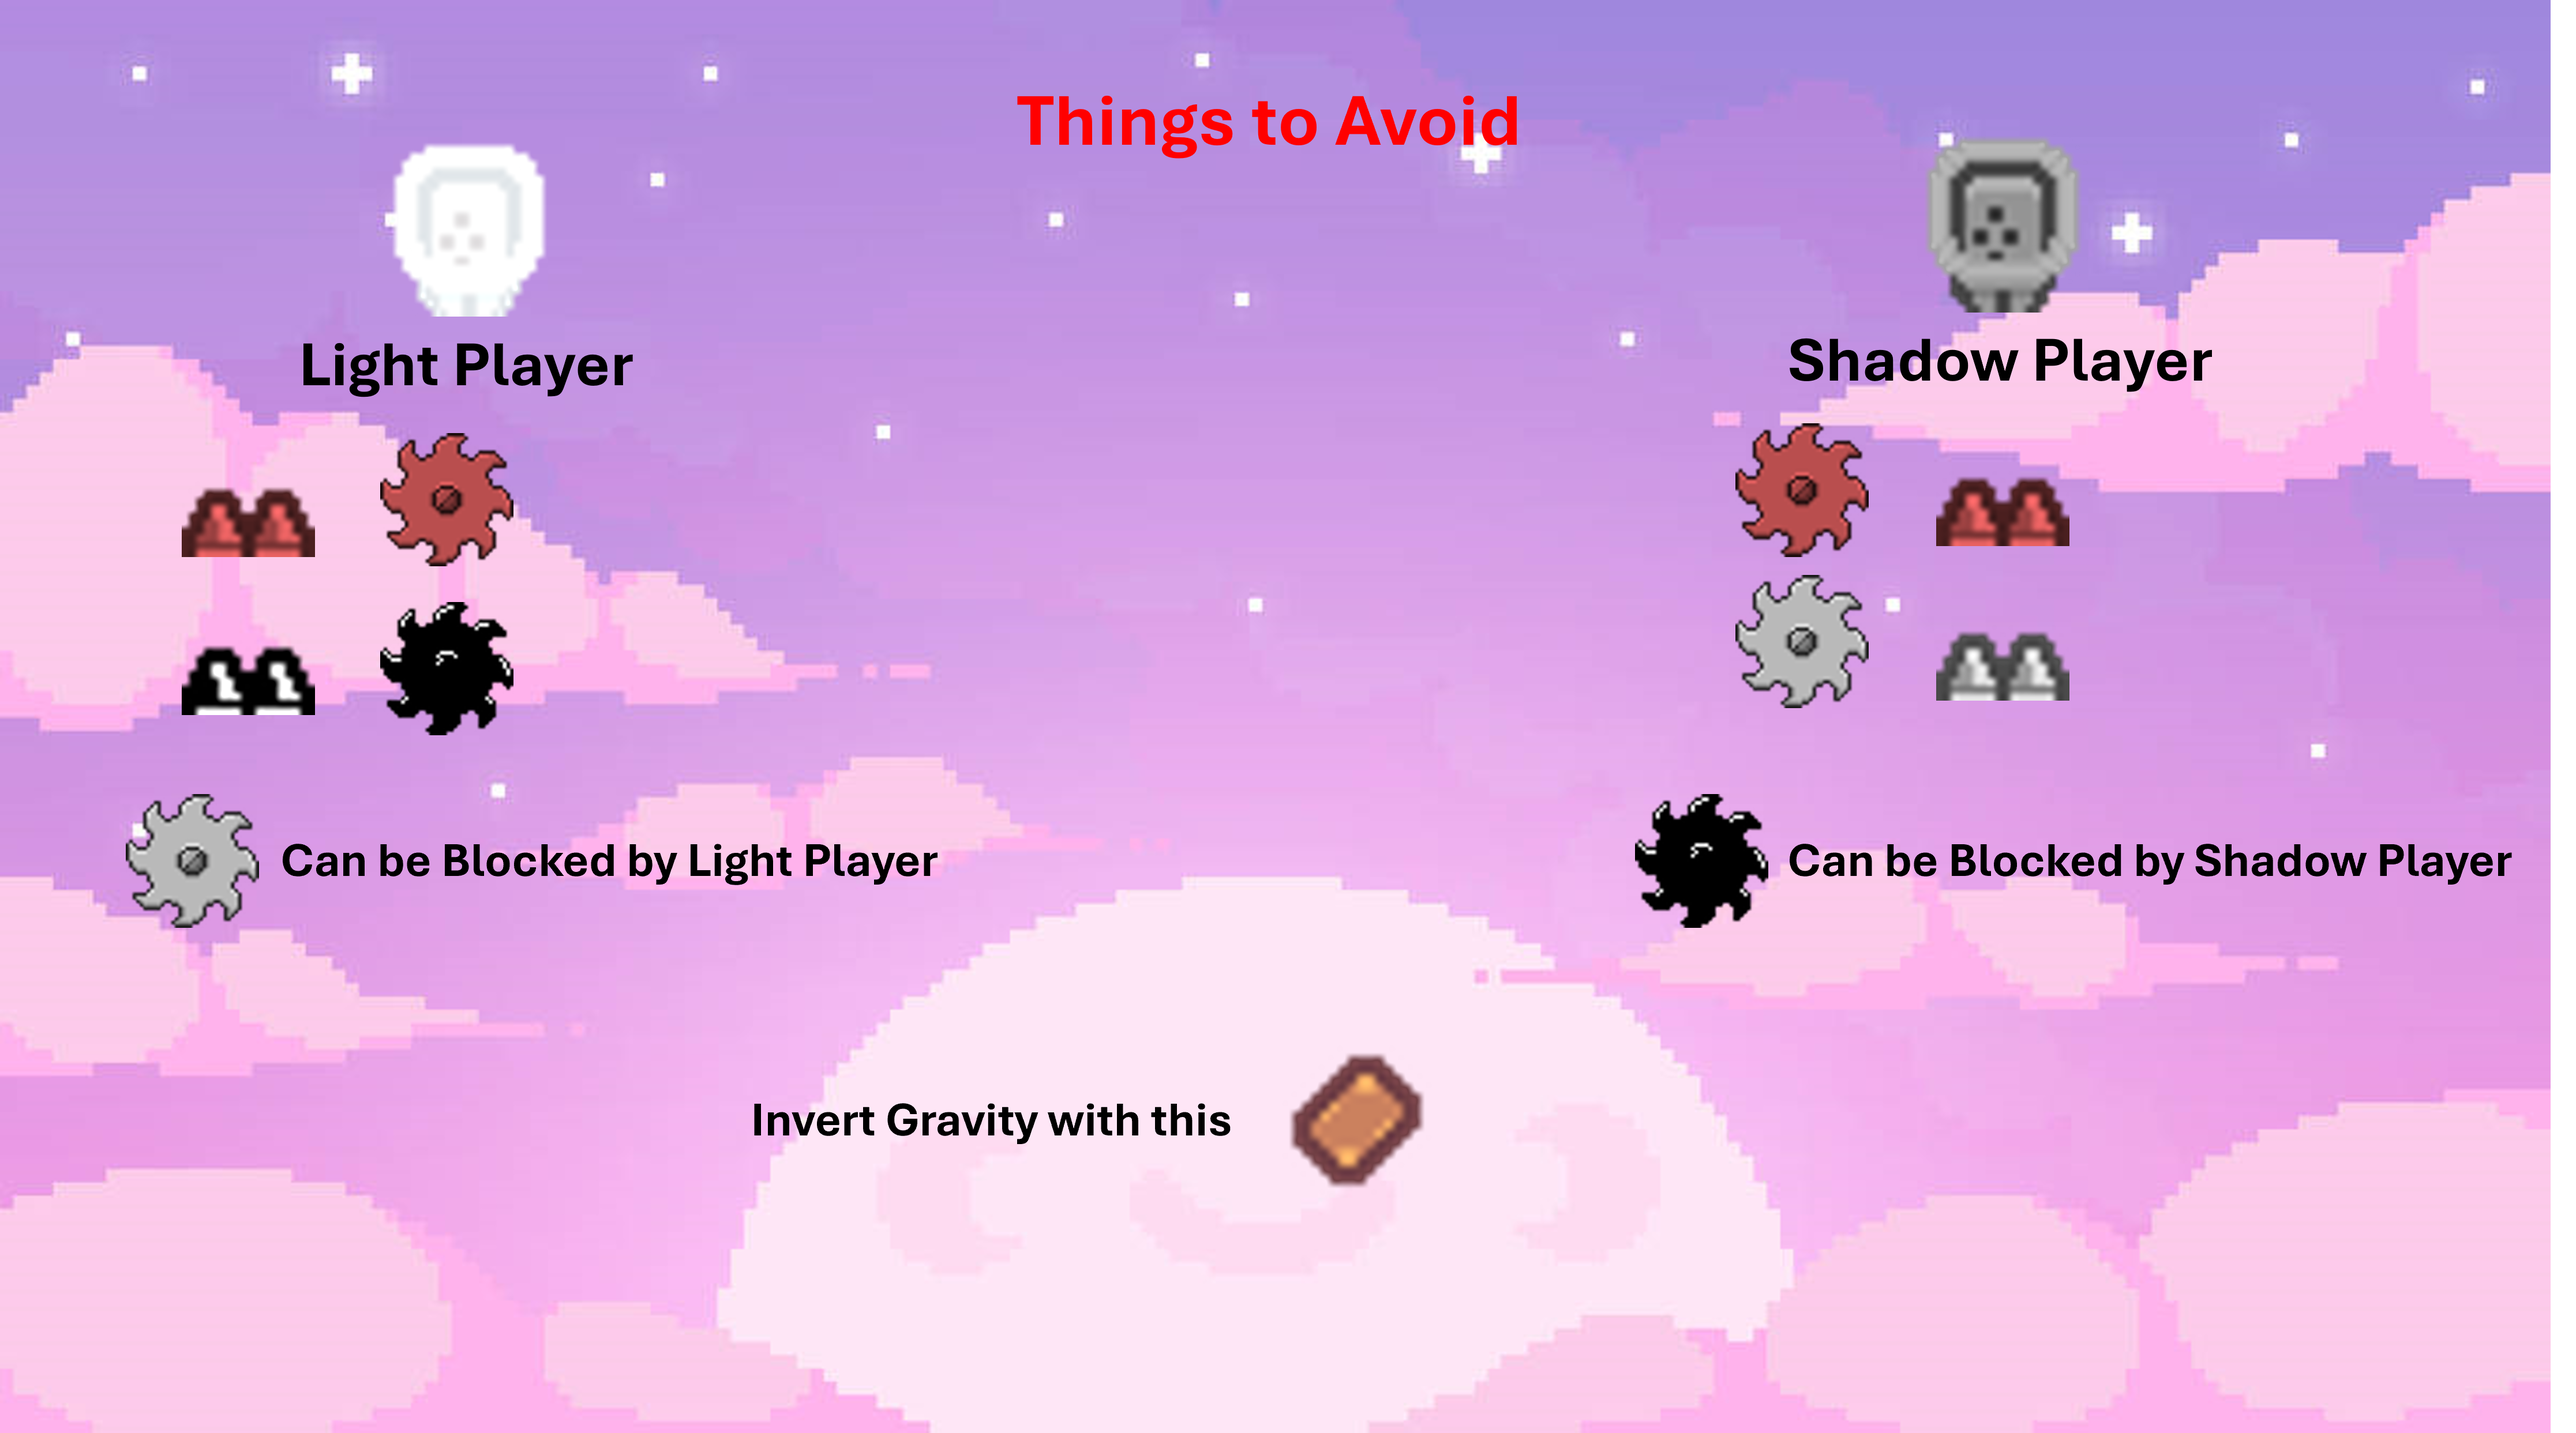
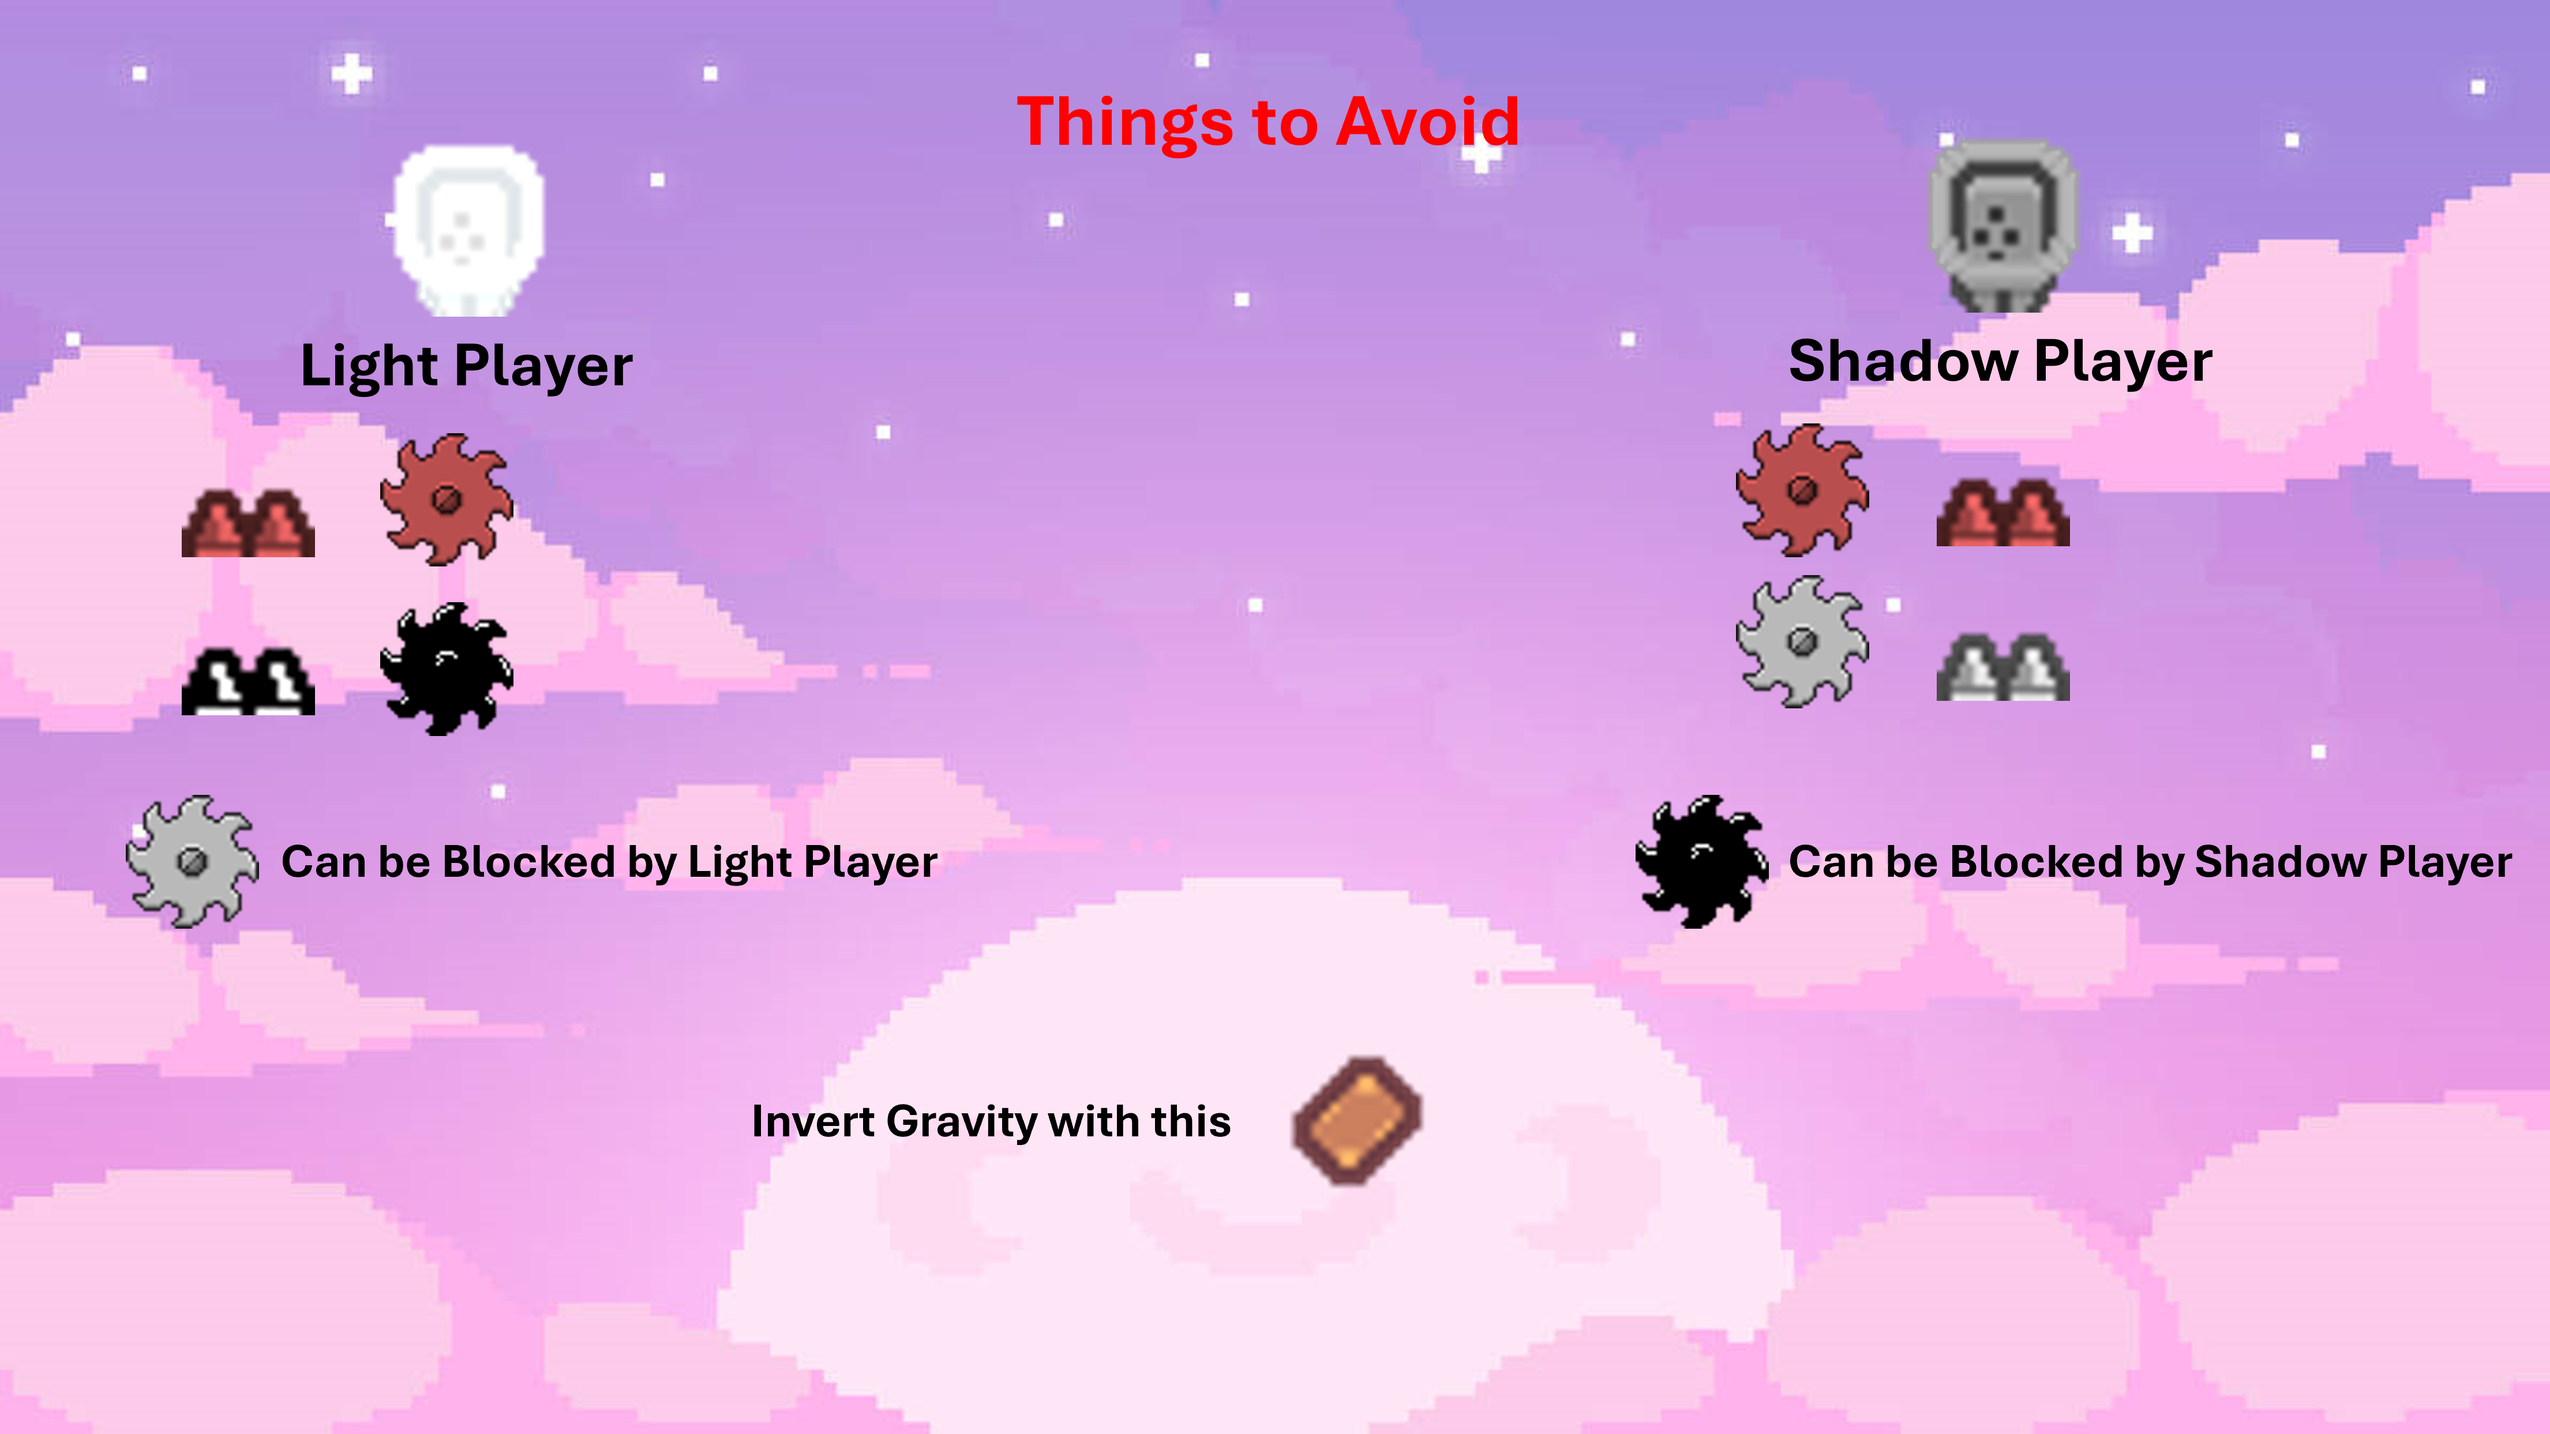
changes to merge

diff --git a/pixel_jump/GameStateLevel.cpp b/pixel_jump/GameStateLevel.cpp
@@ -1689,7 +1689,7 @@ void GameStateLevelDraw(void) {
 
 	Render::RenderFont(s_LightShards, 1.8f, g_WindowWidth * 0.125f, g_WindowHeight * 0.740f, Render::COLOUR::WHITE);
 	Render::RenderFont(s_ShadowFragments, 1.8f, g_WindowWidth * 0.125f, g_WindowHeight * 0.81f, Render::COLOUR::BLACK);
-	Render::RenderFont(s_PlayersLives, 1.8f, g_WindowWidth * 0.125f, g_WindowHeight * 0.875f, Render::COLOUR::RED);
+	//Render::RenderFont(s_PlayersLives, 1.8f, g_WindowWidth * 0.125f, g_WindowHeight * 0.875f, Render::COLOUR::RED);
 }
 
 /******************************************************************************/
